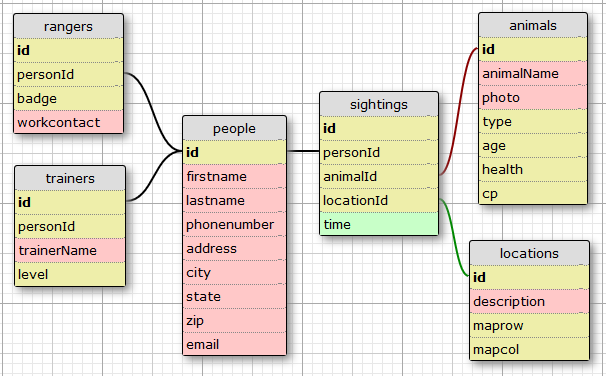
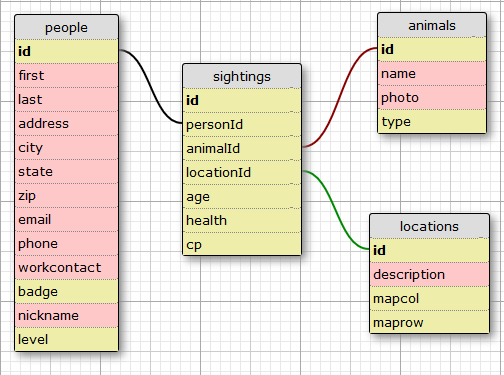
update documentation

diff --git a/README.md b/README.md
@@ -62,16 +62,16 @@ Final Project for Week 4, Java at Epicodus. A program to track wildlife sighting
 * Setup database in PSQL:
   * CREATE DATABASE wildlife_tracker;
   * \c wildlife_tracker
-  * CREATE TABLE animals (id serial PRIMARY KEY, animalName varchar, photo varchar, type int, age int, health int, cp int);
-  * CREATE TABLE sightings (id serial PRIMARY KEY, animalId int, personId int, locationId int, time timestamp);
+  * CREATE TABLE animals (id serial PRIMARY KEY, animalName varchar, photo varchar, type int);
+  * CREATE TABLE sightings (id serial PRIMARY KEY, animalId int, personId int, locationId int, time timestamp, age int, health int, cp int);
   * CREATE TABLE people (id serial PRIMARY KEY, firstname varchar, lastname varchar, phonenumber varchar, address varchar, city varchar, state varchar, zip varchar, email varchar, badge int, workcontact varchar, trainerName varchar, level int);
   * CREATE TABLE locations (id serial PRIMARY KEY, description varchar, maprow int, mapcol int);
   * CREATE DATABASE wildlife_tracker_test WITH TEMPLATE wildlife_tracker;
 * OR ... restore database from backup by running
   * CREATE DATABASE wildlife_tracker;
-  * psql wildlife_tracker < db_backup.sql
+  * psql wildlife_tracker < wildlife.sql
   * CREATE DATABASE wildlife_tracker_test;
-  * psql wildlife_tracker_test < db_backup.sql
+  * psql wildlife_tracker_test < wildlife.sql
 * Type 'gradle run' inside the project directory
 * Navigate to 'http://localhost:4567'
 
